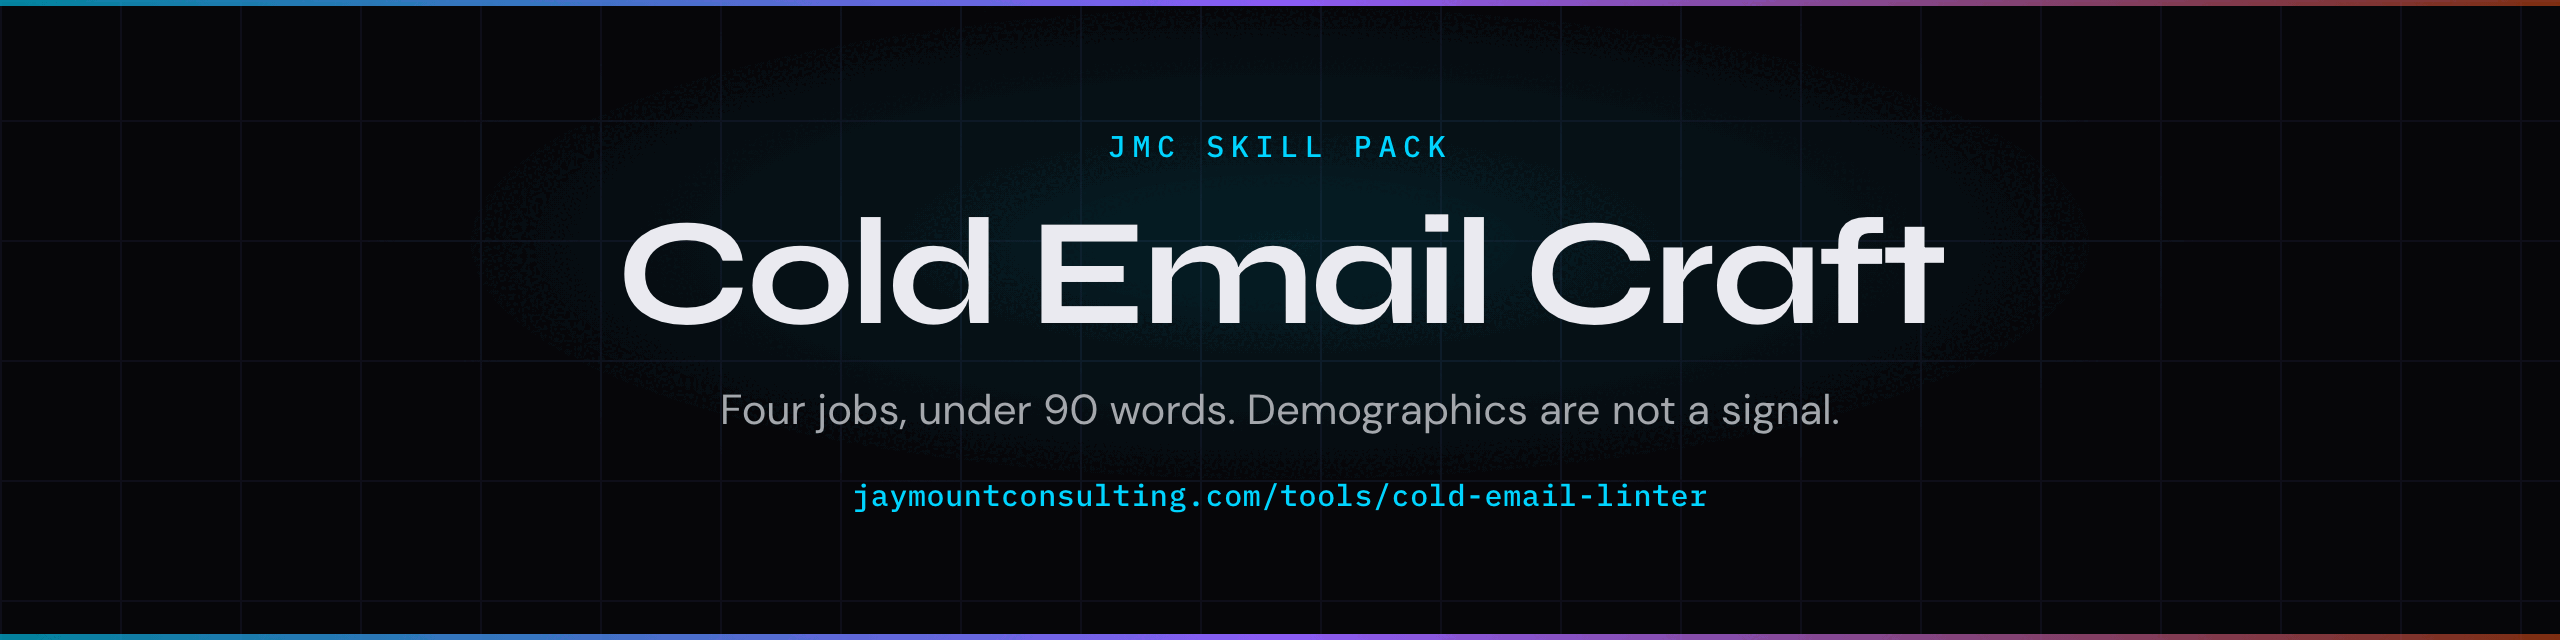
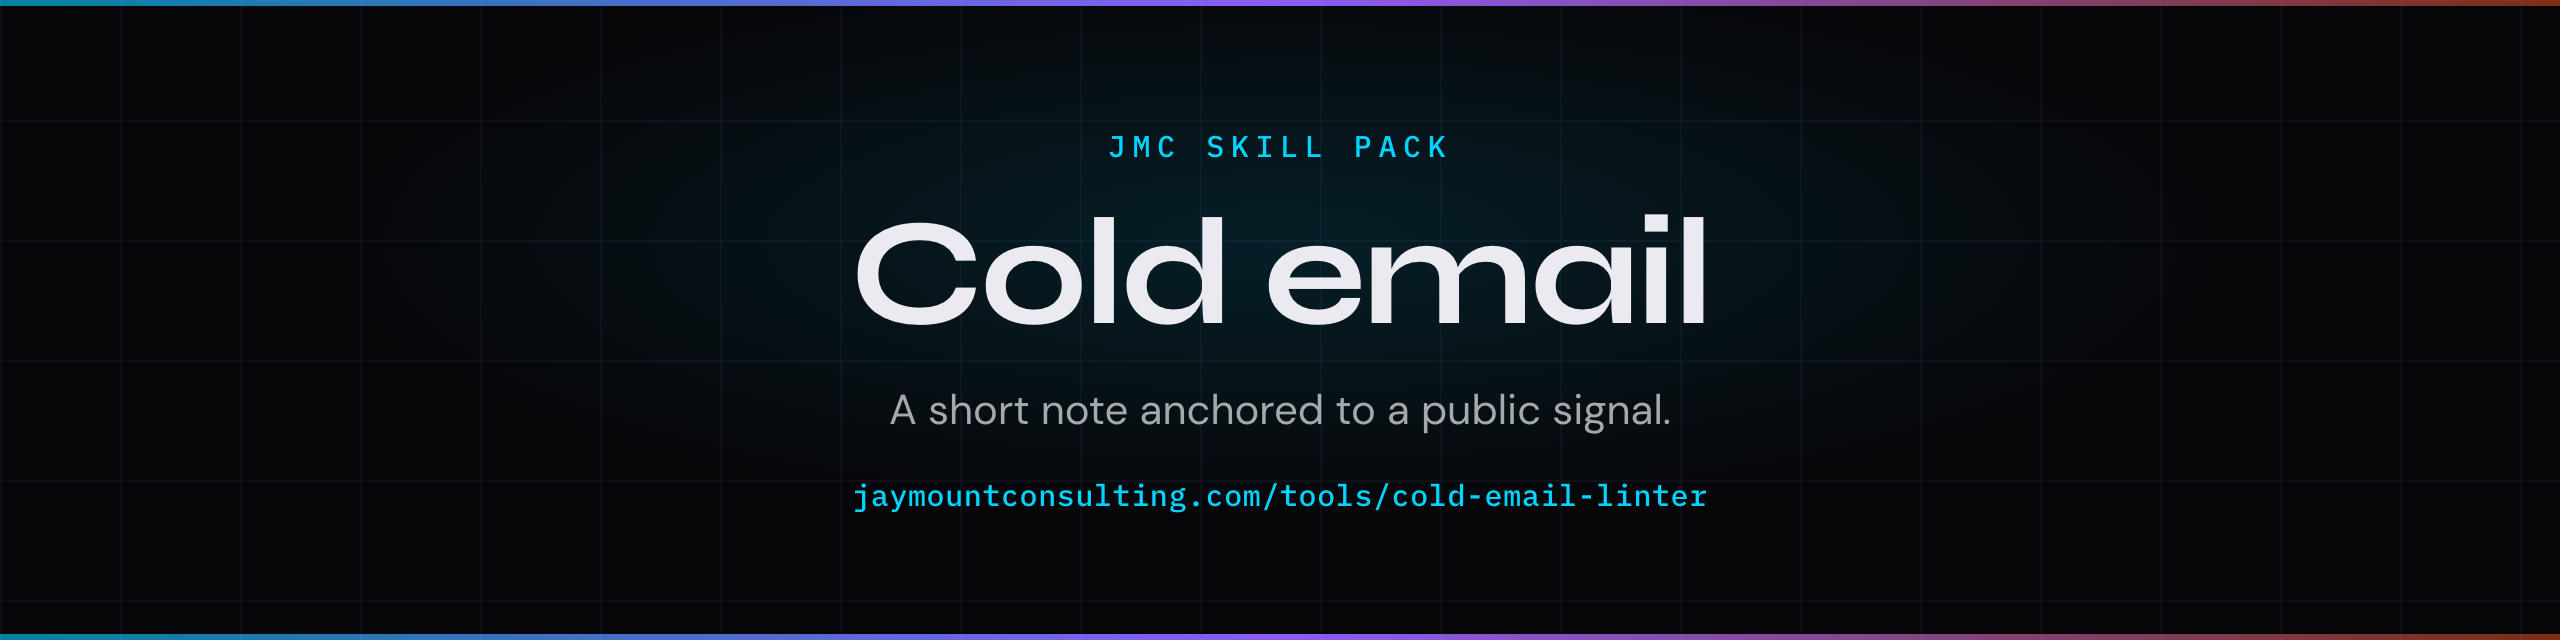
docs(assets): put the search phrase on the card and demo
Header, social card, and demo now use the search phrase and the scores already printed in the README.

Changed region(s): [[0.2188, 0.3438, 0.7812, 0.5312], [0.2812, 0.625, 0.7188, 0.6875]]

diff --git a/README.md b/README.md
@@ -26,7 +26,7 @@ The build guide teaches the framework to a human. This pack teaches the same fra
 ![Install](https://img.shields.io/badge/install-npx%20skills-blue)
 
 <p align="center">
-  <img src="./assets/demo.gif" alt="claude-cold-email — linting a signal-anchored T1 versus a spam-laden draft" width="100%">
+  <img src="./assets/demo.gif" alt="Cold email skill — sample T1 scores 100" width="100%">
 </p>
 
 ## What this replaces
